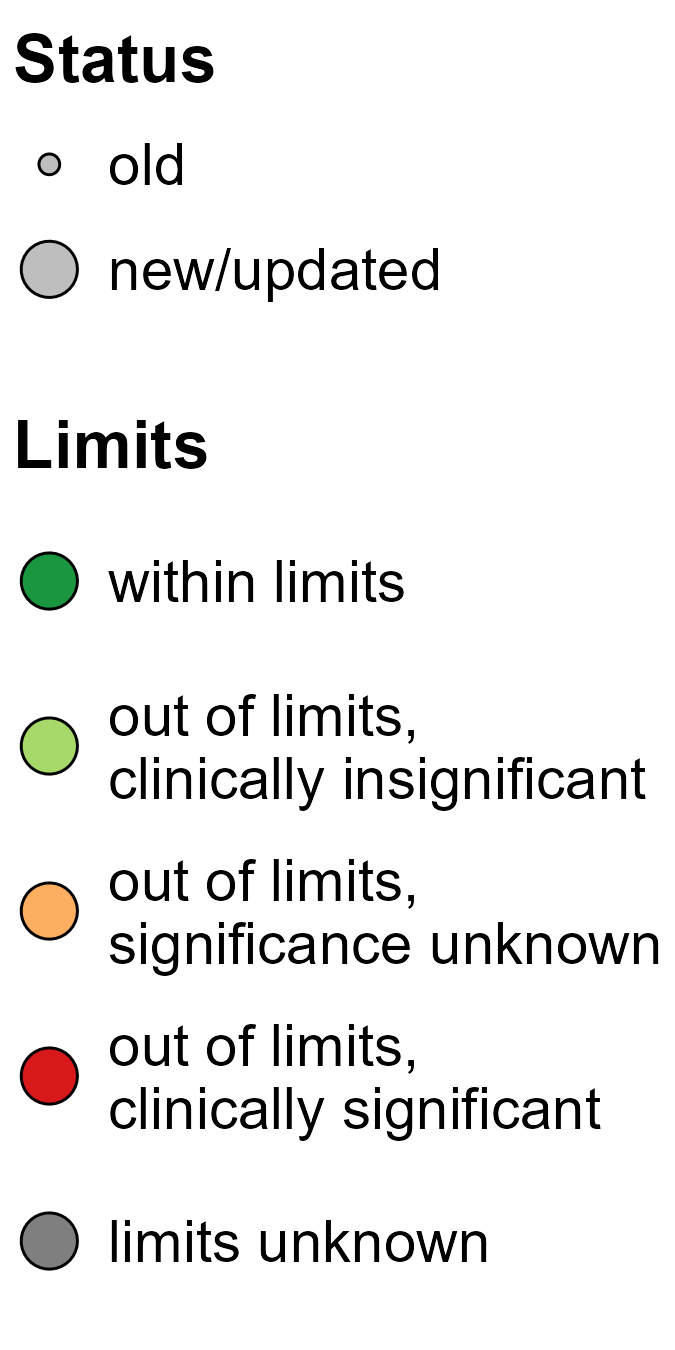
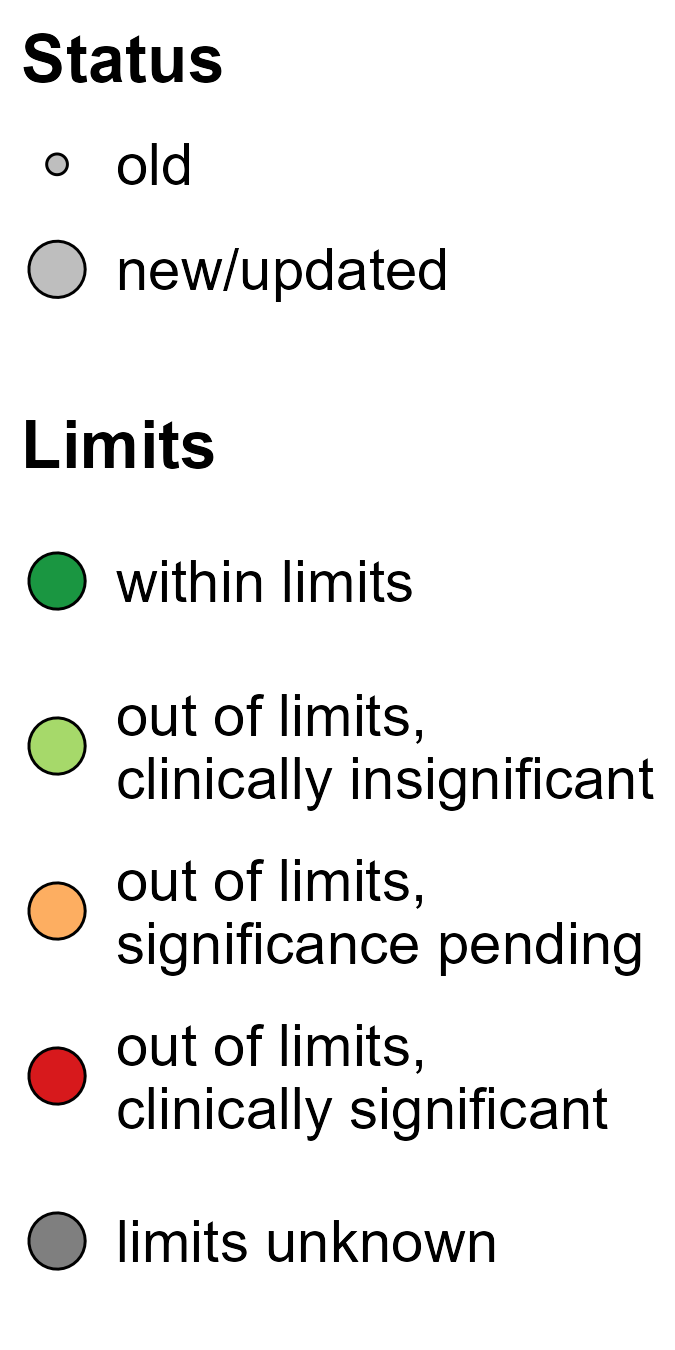
one commit to convert all legend details to 'significance pending' instead of 'significance unknown'

diff --git a/NEWS.md b/NEWS.md
@@ -10,7 +10,7 @@
 - Add a logging table to the DB for reviews.
 - Simplify pulling data from DB for reviews.
 - Review data by records IDs instead of subject & form
-- Changed the legend to display 'significance pending' instead of 'significance unknown'.
+- Changed the legend to display 'significance pending' instead of 'significance pending'.
 
 ## Bug fixes
 
